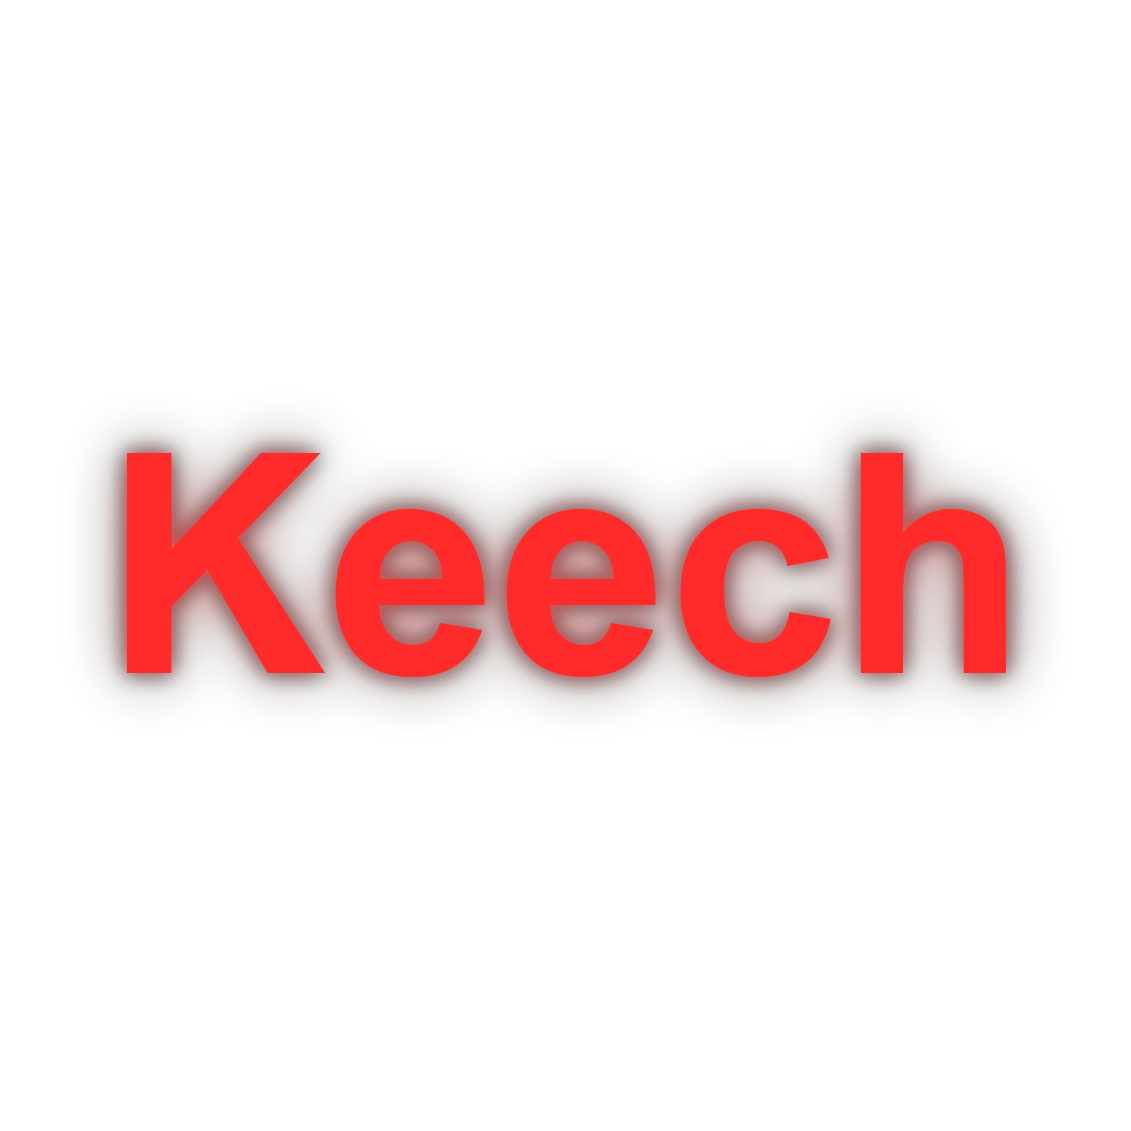
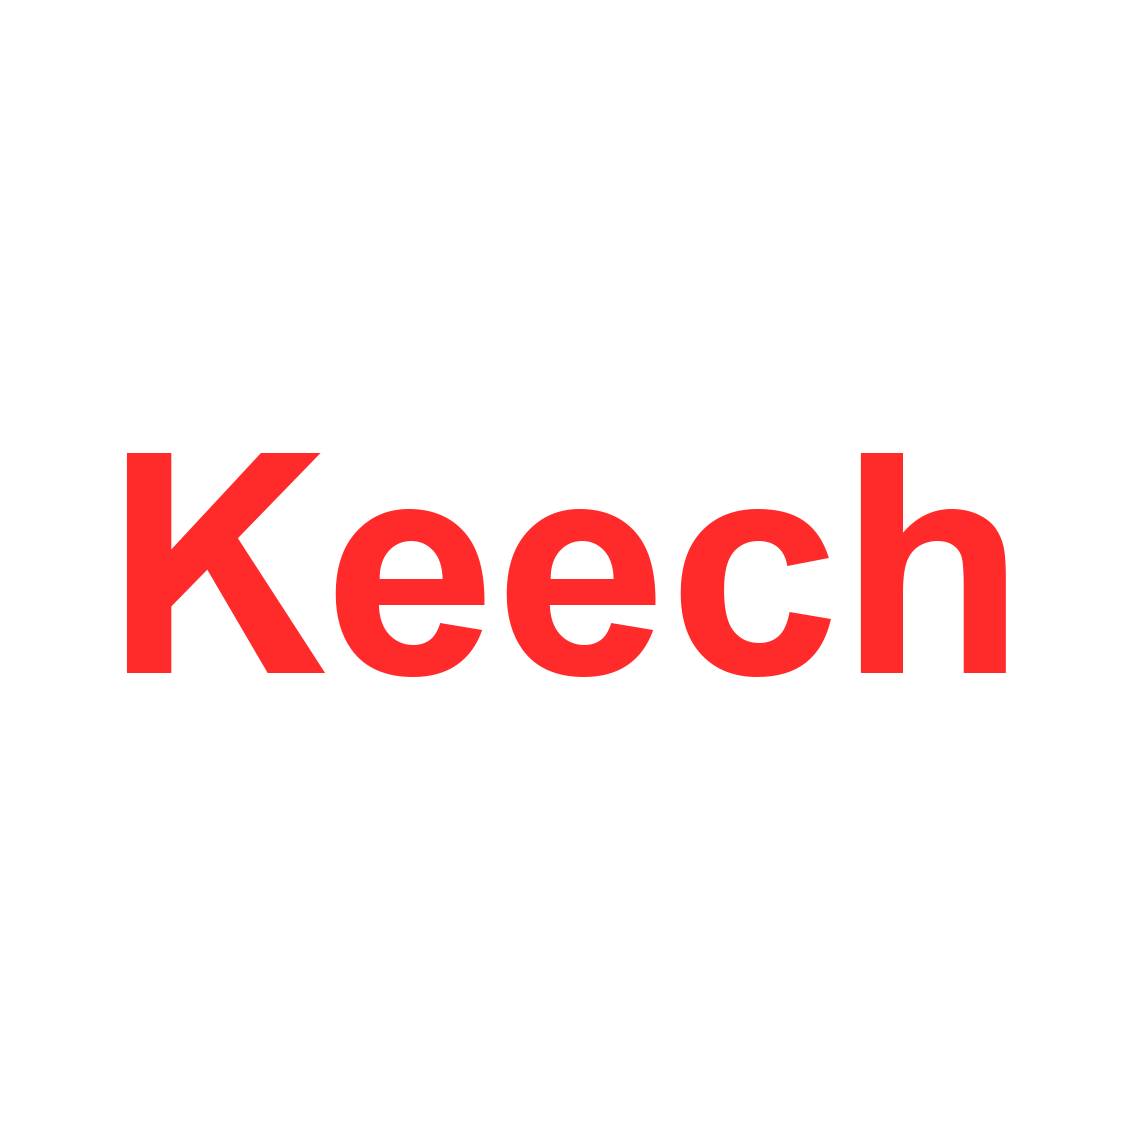
Remove glow from scarlet Halloween nick and BP art.
Keep solid #FF2A2A glyphs only — no text-shadow or painted bloom.

Changed region(s): [[0.0619, 0.3714, 0.9284, 0.6189]]

diff --git a/src/lib/battlePassSeason2.ts b/src/lib/battlePassSeason2.ts
@@ -235,7 +235,7 @@ export const BP_S2_REWARDS: BpReward[] = [
     preview:
       "Ярко-алый неоновый ник — плоские чёткие буквы",
     hover: "Алая жатва · ур. 15 Season 2 Halloween",
-    image: "/bp-halloween/nick-v2.jpg?v=scarlet1",
+    image: "/bp-halloween/nick-v2.jpg?v=scarlet2",
   },
   {
     level: 20,
@@ -273,7 +273,7 @@ export function s2RewardFullImage(reward: BpReward): string {
   if (reward.id === "hw2-knife") return "/bp-halloween/knife-hook-v2-cutout.png?v=blood1";
   if (reward.id === "hw2-gun") return "/bp-halloween/weapon-ak-v2-cutout.png?v=blood1";
   if (reward.id === "hw2-trophy") return "/bp-halloween/pomegranate-relic-v1-cutout.png?v=3";
-  if (reward.id === "hw2-nick") return "/bp-halloween/nick-v2-cutout.png?v=scarlet1";
+  if (reward.id === "hw2-nick") return "/bp-halloween/nick-v2-cutout.png?v=scarlet2";
   return reward.image || BP_S2_IDLE_ART;
 }
 
@@ -286,7 +286,7 @@ export function s2RewardMileImage(reward: BpReward): string {
   if (reward.id === "hw2-knife") return "/bp-halloween/knife-hook-v2-cutout.png?v=blood1";
   if (reward.id === "hw2-gun") return "/bp-halloween/weapon-ak-v2-cutout.png?v=blood1";
   if (reward.id === "hw2-trophy") return "/bp-halloween/pomegranate-relic-v1-cutout.png?v=3";
-  if (reward.id === "hw2-nick") return "/bp-halloween/nick-v2-cutout.png?v=scarlet1";
+  if (reward.id === "hw2-nick") return "/bp-halloween/nick-v2-cutout.png?v=scarlet2";
   return reward.image || BP_S2_IDLE_ART;
 }
 

diff --git a/src/app/globals.css b/src/app/globals.css
@@ -1402,11 +1402,8 @@ body:has(.tm-sapper-page) {
   letter-spacing: 0.03em;
   line-height: 1.05;
   text-transform: none;
-  /* ярко-алый плоский неон, без объёма */
-  text-shadow:
-    0 0 6px rgba(255, 42, 42, 0.9),
-    0 0 14px rgba(255, 20, 20, 0.5);
-  transition: text-shadow 0.16s ease, color 0.16s ease;
+  text-shadow: none;
+  transition: color 0.16s ease;
 }
 .public-rating-nick-label.is-halloween-gothic::before,
 .public-rating-nick-label.is-halloween-gothic::after {
@@ -1418,9 +1415,7 @@ body:has(.tm-sapper-page) {
   .public-rating-nick-label.is-halloween-gothic {
   color: #FF5555;
   -webkit-text-fill-color: #FF5555;
-  text-shadow:
-    0 0 8px rgba(255, 85, 85, 0.95),
-    0 0 18px rgba(255, 42, 42, 0.6);
+  text-shadow: none;
 }
 .nick-patch-mark,
 .public-rating-bp-patch-test {
@@ -10295,9 +10290,7 @@ body:has(.home-page) {
   font-size: 1.28rem;
   font-weight: 900;
   letter-spacing: 0.03em;
-  text-shadow:
-    0 0 6px rgba(255, 42, 42, 0.9),
-    0 0 14px rgba(255, 20, 20, 0.5);
+  text-shadow: none;
 }
 
 .home-nick-label.is-halloween-gothic::before,

diff --git a/docs/CHANGELOG.md b/docs/CHANGELOG.md
@@ -1,3 +1,9 @@
+## v. 1.2.126 — 03.11.2026 · «Алая жатва»: без свечения
+
+Только чистый алый цвет букв — glow убран и в рейтинге, и в BP-арте.
+
+---
+
 ## v. 1.2.125 — 03.11.2026 · «Алая жатва»
 
 Ник и арт BP — ярко-алый #FF2A2A, плоские чёткие буквы.
